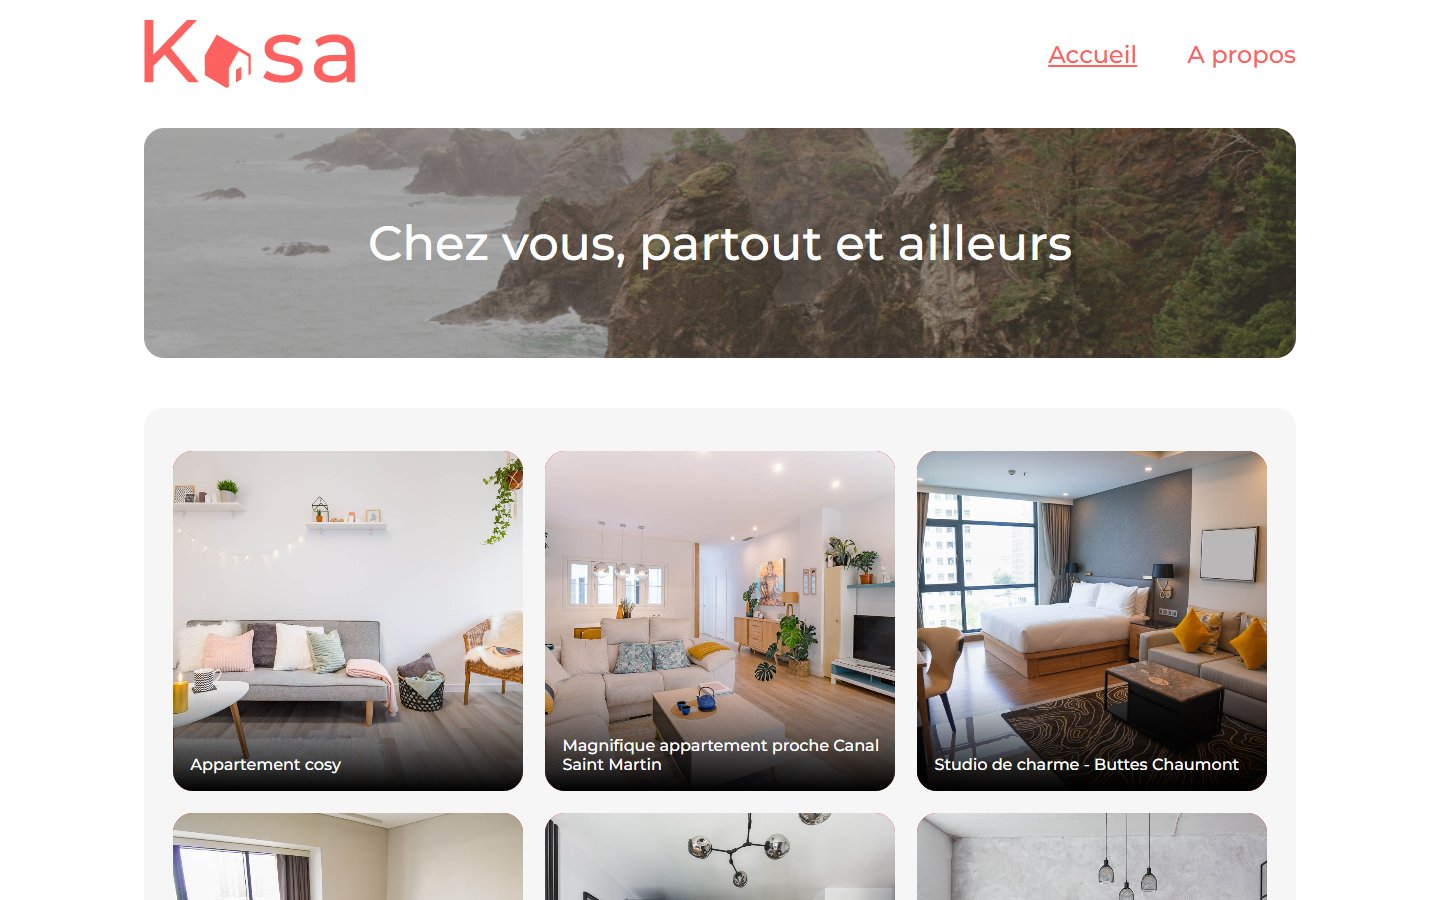
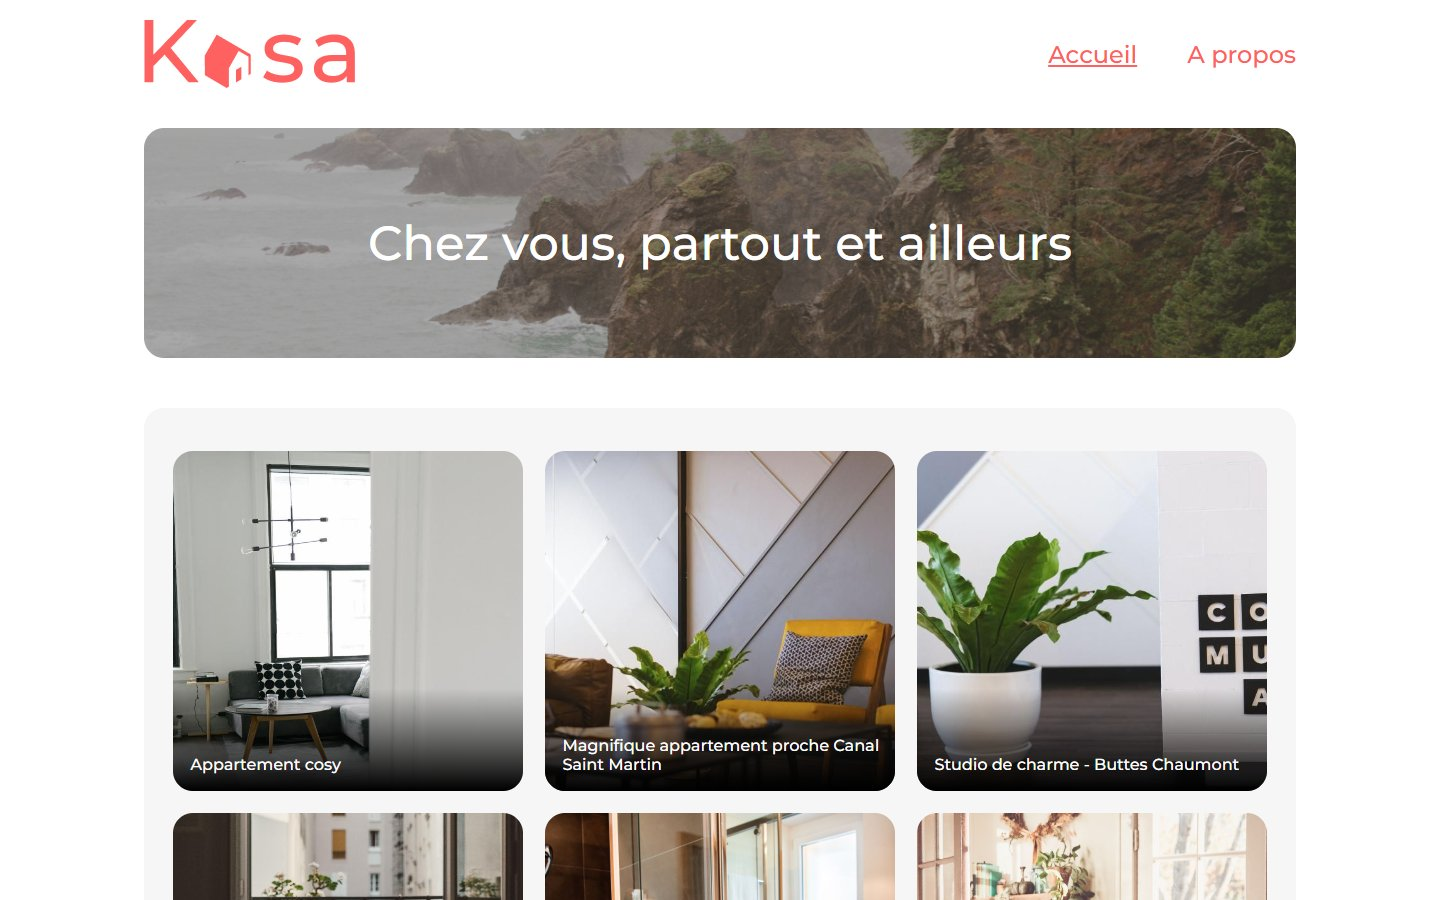
Replace all photos with CC0 images stored in the repository
Rental and host photos now come from StockSnap (CC0), resized and
committed under public/images. Credits for each file in PHOTO-CREDITS.md.

Changed region(s): [[0.0938, 0.4978, 0.9062, 0.8711], [0.0938, 0.9022, 0.9062, 1.0]]

diff --git a/PHOTO-CREDITS.md b/PHOTO-CREDITS.md
@@ -1,0 +1,61 @@
+# Photo credits
+
+All photos are from [StockSnap](https://stocksnap.io), released under the [CC0 1.0 Universal (public domain dedication)](https://creativecommons.org/publicdomain/zero/1.0/) license ([StockSnap license page](https://stocksnap.io/license)). Attribution is not required; it is given here anyway. License checked for each image through the [Openverse](https://openverse.org) catalogue on October 21, 2026.
+
+| File | Photo | Author |
+| --- | --- | --- |
+| `public/images/hosts/adrien-chiran.jpg` | [Cowboy Man](https://stocksnap.io/photo/cowboy-man-09YLYTDCOY) | Leroy Skalstad |
+| `public/images/hosts/della-case.jpg` | [Beauty Woman](https://stocksnap.io/photo/beauty-woman-6N8ZMJNQU6) | Authentic Stock |
+| `public/images/hosts/franck-maher.jpg` | [Smiling Man](https://stocksnap.io/photo/smiling-man-3LMPSCJQGQ) | Matt Moloney |
+| `public/images/hosts/hugo-perrier.jpg` | [Male Professional](https://stocksnap.io/photo/male-professional-6QXAIH13O6) | Kristin Hardwick |
+| `public/images/hosts/julie-donatella.jpg` | [Female Doctor](https://stocksnap.io/photo/female-doctor-WINC1QDMT4) | Direct Media |
+| `public/images/hosts/karen-guillet.jpg` | [Smiling Woman](https://stocksnap.io/photo/smiling-woman-NAQDACNUFE) | Authentic Stock |
+| `public/images/hosts/line-rolland.jpg` | [Education Graduation](https://stocksnap.io/photo/education-graduation-XAL3MIM3OC) | Candace McDaniel |
+| `public/images/hosts/michel-romy.jpg` | [Business Man](https://stocksnap.io/photo/business-man-IVZBYWKEFM) | Direct Media |
+| `public/images/hosts/nathalie-jean.jpg` | [Smiling Woman](https://stocksnap.io/photo/smiling-woman-W6GFOSFAXA) | Matt Moloney |
+| `public/images/hosts/sarah-devit.jpg` | [Smiling Woman](https://stocksnap.io/photo/smiling-woman-YANJF5SZTU) | Authentic Stock |
+| `public/images/hosts/sebastien-fournier.jpg` | [Black Portrait](https://stocksnap.io/photo/black-portrait-T8VNJRQH7F) | Kristin Hardwick |
+| `public/images/hosts/victor-moran.jpg` | [Oldman Portrait](https://stocksnap.io/photo/oldman-portrait-TTOM5R7SFF) | George Desipris |
+| `public/images/rentals/rental-00.jpg` | [House Home](https://stocksnap.io/photo/house-home-CLD6T4J9VZ) | Joshua Ness |
+| `public/images/rentals/rental-01.jpg` | [Home House](https://stocksnap.io/photo/home-house-87ONRC5PWV) | Breather |
+| `public/images/rentals/rental-02.jpg` | [House Home](https://stocksnap.io/photo/house-home-6KJ12UWOKQ) | Mike Birdy |
+| `public/images/rentals/rental-03.jpg` | [Interior Design](https://stocksnap.io/photo/interior-design-HIH67XC5G0) | Kristin Hardwick |
+| `public/images/rentals/rental-04.jpg` | [House Interior](https://stocksnap.io/photo/house-interior-NF6P1OX124) | Justin Schüler |
+| `public/images/rentals/rental-05.jpg` | [House Interior](https://stocksnap.io/photo/house-interior-XCOZ3XTV7M) | Tim Wright |
+| `public/images/rentals/rental-07.jpg` | [Interior Living](https://stocksnap.io/photo/interior-living-6SMA09U7Y8) | Jaros%u0142aw%20Ceborski |
+| `public/images/rentals/rental-08.jpg` | [Architecture House](https://stocksnap.io/photo/architecture-house-9QLIF5KSSQ) | Medhat Ayad |
+| `public/images/rentals/rental-10.jpg` | [Living Room](https://stocksnap.io/photo/living-room-BI0P6D3WL9) | Dan Gold |
+| `public/images/rentals/rental-11.jpg` | [House Interior](https://stocksnap.io/photo/house-interior-W36Z806O9S) | Kari Shea |
+| `public/images/rentals/rental-12.jpg` | [Couch Furniture](https://stocksnap.io/photo/couch-furniture-TQNWBTLHLY) | Kristin Hardwick |
+| `public/images/rentals/rental-13.jpg` | [House Interior](https://stocksnap.io/photo/house-interior-PQK21GNW3L) | Flaunter .com |
+| `public/images/rentals/rental-14.jpg` | [Kitchen Interior](https://stocksnap.io/photo/kitchen-interior-3ZX53UFU8B) | Matt Bango |
+| `public/images/rentals/rental-15.jpg` | [Piano Keyboard](https://stocksnap.io/photo/piano-keyboard-41AG8AS7OG) | Lauren Mancke |
+| `public/images/rentals/rental-16.jpg` | [Architecture House](https://stocksnap.io/photo/architecture-house-R8SYL6ROA1) | Sasha%20%u2022%20Instagram.com/sanfrancisco |
+| `public/images/rentals/rental-17.jpg` | [Living Room](https://stocksnap.io/photo/living-room-Q3N84SQ4YQ) | Dan Gold |
+| `public/images/rentals/rental-18.jpg` | [Apartment Bed](https://stocksnap.io/photo/apartment-bed-EGXWIV409M) | Medhat Ayad |
+| `public/images/rentals/rental-19.jpg` | [Modern Interior](https://stocksnap.io/photo/modern-interior-KWRZNZ6DC6) | Dahl House Design |
+| `public/images/rentals/rental-21.jpg` | [House Home](https://stocksnap.io/photo/house-home-W9NA327MNL) | Joseph Albanese |
+| `public/images/rentals/rental-22.jpg` | [Bed Table](https://stocksnap.io/photo/bed-table-FND1JADL6W) | Sylwia Pietruszka |
+| `public/images/rentals/rental-23.jpg` | [House Home](https://stocksnap.io/photo/house-home-QXRZLX36A5) | John Towner |
+| `public/images/rentals/rental-26.jpg` | [Modern Room](https://stocksnap.io/photo/modern-room-ORRHZ1VULX) | World Travel Adventures |
+| `public/images/rentals/rental-29.jpg` | [House Home](https://stocksnap.io/photo/house-home-29PH3DAQ7C) | Simon Rae |
+| `public/images/rentals/rental-30.jpg` | [House Home](https://stocksnap.io/photo/house-home-IZQN4O2E8X) | Simon Rae |
+| `public/images/rentals/rental-31.jpg` | [Interior House](https://stocksnap.io/photo/interior-house-C14AD5ZG3G) | Abigail Keenan |
+| `public/images/rentals/rental-32.jpg` | [Woman Bathtub](https://stocksnap.io/photo/woman-bathtub-OBM5JBLMN9) | Matt Bango |
+| `public/images/rentals/rental-33.jpg` | [Modern Bathroom](https://stocksnap.io/photo/modern-bathroom-SX2H0BU5EG) | Travel Adventures |
+| `public/images/rentals/rental-34.jpg` | [Modern Bathroom](https://stocksnap.io/photo/modern-bathroom-F4CZ0LN5OO) | Travel Adventures |
+| `public/images/rentals/rental-35.jpg` | [House Home](https://stocksnap.io/photo/house-home-6M49G7YDLK) | Kari Shea |
+| `public/images/rentals/rental-37.jpg` | [House Home](https://stocksnap.io/photo/house-home-LJ515CPAKI) | Binyamin Mellish |
+| `public/images/rentals/rental-38.jpg` | [House Home](https://stocksnap.io/photo/house-home-L9VZ6SOGBB) | Binyamin Mellish |
+| `public/images/rentals/rental-54.jpg` | [Building Facades](https://stocksnap.io/photo/building-facades-BAXJHTLAWN) | Matt Bango |
+| `public/images/rentals/rental-55.jpg` | [House Interior](https://stocksnap.io/photo/house-interior-APBDJIC32G) | NeONBRAND |
+| `public/images/rentals/rental-56.jpg` | [Bluetooth Black](https://stocksnap.io/photo/bluetooth-black-DJFEUF4EV6) | Matthew Henry |
+| `public/images/rentals/rental-63.jpg` | [Farmhouse Kitchen](https://stocksnap.io/photo/farmhouse-kitchen-QSX4WH8BDB) | Matt Bango |
+| `public/images/rentals/rental-64.jpg` | [Modern Interior](https://stocksnap.io/photo/modern-interior-YED8JWCWVB) | Matt Bango |
+| `public/images/rentals/rental-65.jpg` | [Cabin Woods](https://stocksnap.io/photo/cabin-woods-TTSKFGC6G1) | Spencer Selover |
+| `public/images/rentals/rental-68.jpg` | [Interior Dining](https://stocksnap.io/photo/interior-dining-VMJ6JJFFWR) | Kristin Hardwick |
+| `public/images/rentals/rental-69.jpg` | [Interior Dining](https://stocksnap.io/photo/interior-dining-LHKILYV8X0) | Kristin Hardwick |
+| `public/images/rentals/rental-70.jpg` | [Simple Home](https://stocksnap.io/photo/simple-home-UQOXY4POK8) | Burst |
+| `public/images/rentals/rental-71.jpg` | [Dining Room](https://stocksnap.io/photo/dining-room-DYTXNUKGP2) | Kelly Ishmael |
+| `public/images/rentals/rental-72.jpg` | [Dining Table](https://stocksnap.io/photo/dining-table-LTCQNB2L7A) | Matt Bango |
+| `public/images/rentals/rental-74.jpg` | [Dining Table](https://stocksnap.io/photo/dining-table-NCEEGGU7W4) | Matt Bango |

diff --git a/README.md b/README.md
@@ -20,6 +20,7 @@ Changes made in 2026 to publish it on GitHub Pages:
 
 - the router uses hash URLs (`/Kasa/#/about`), so reloading a page or opening a shared link works on static hosting;
 - two components read the current address from `react-router` instead of `window.location`, which gave wrong results once the site lived in a sub-folder.
+- all photos (rentals and hosts) are now CC0 images from StockSnap, stored in the repository; see [PHOTO-CREDITS.md](PHOTO-CREDITS.md).
 
 ## Stack
 
